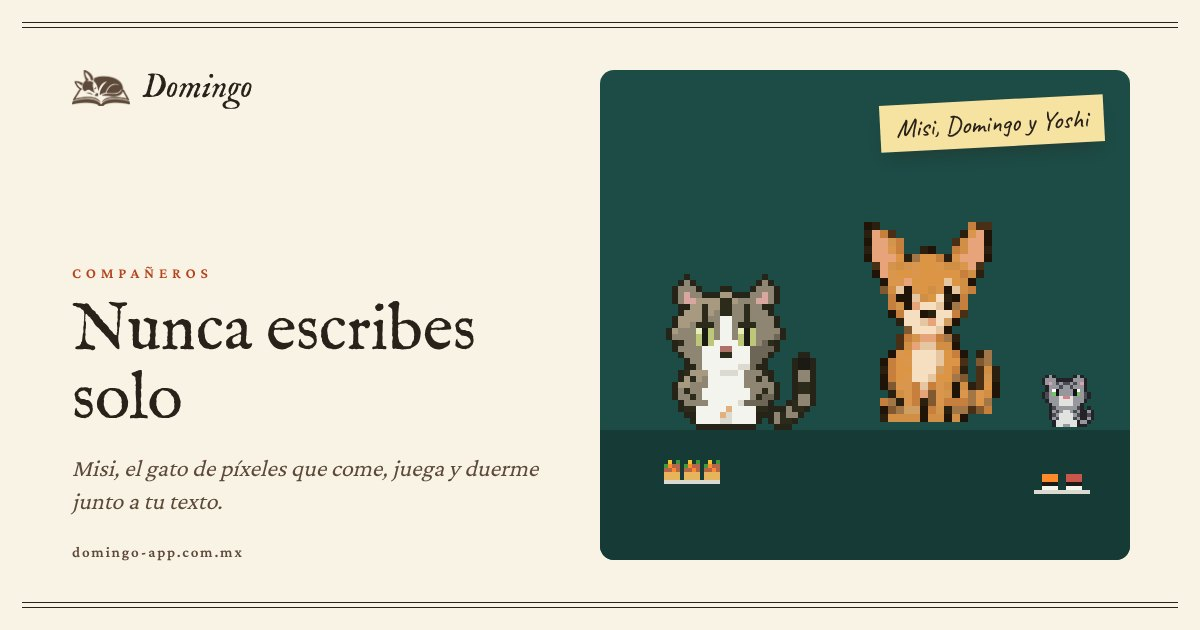
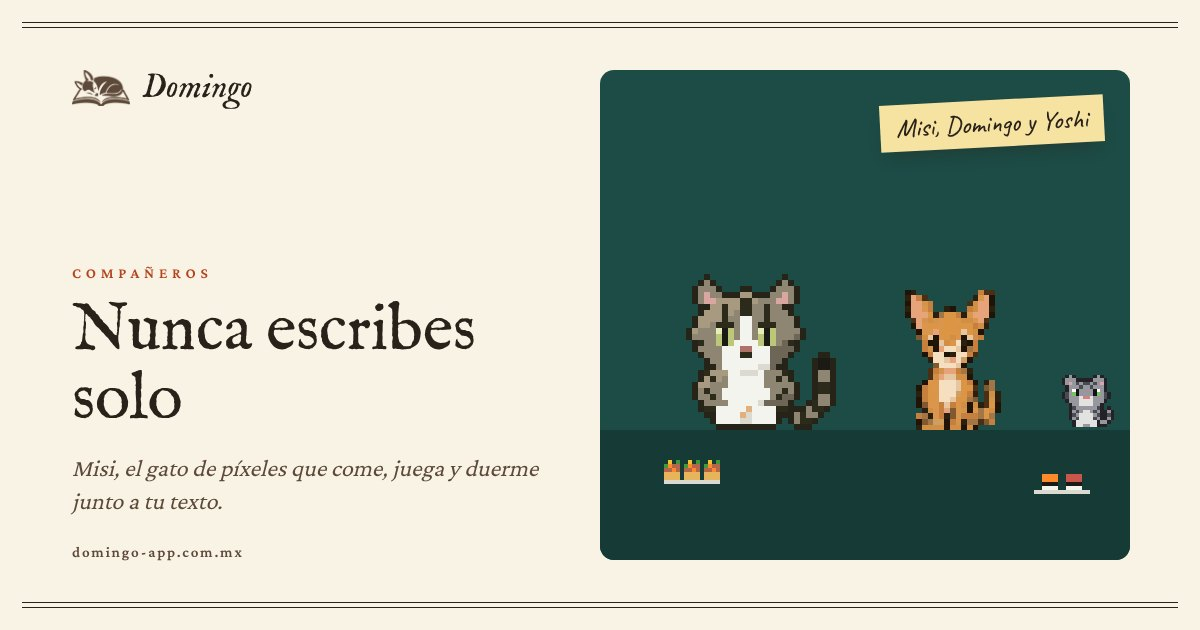
Proporciones reales: Domingo un poco más pequeño que Misi en el sitio y en las imágenes para compartir
Claude-Session: https://claude.ai/code/session_01SU9RbtriRXr5rLhsn7hhpR

Changed region(s): [[0.555, 0.3317, 0.8325, 0.6937], [0.8633, 0.573, 0.925, 0.6937]]

diff --git a/companeros/index.html b/companeros/index.html
@@ -71,7 +71,7 @@
 </div></section>
 <section class="banda"><div class="envoltura">
   <div class="cabeza centro"><span class="versal">El camino</span><h2>Lo que llega si sigues escribiendo</h2><hr class="filete"></div>
-  <div class="hitos"><div class="hito aparece"><div class="sp"><img class="px" src="../img/companeros/a_lentes_sit0.png" width="32" height="30" style="width:128px" alt="" loading="lazy"></div><div class="bola">1</div><b>Lentes</b><small>3 días</small></div><div class="hito aparece"><div class="sp"><img src="../img/companeros/torre.svg" width="150" height="190" style="width:84px" alt="" loading="lazy"></div><div class="bola">2</div><b>La torre</b><small>15,000 palabras</small></div><div class="hito aparece"><div class="sp"><img class="px" src="../img/companeros/f_leon_sit0.png" width="32" height="30" style="width:128px" alt="" loading="lazy"></div><div class="bola">3</div><b>León</b><small>25,000 palabras</small></div><div class="hito aparece"><div class="sp"><img class="px" src="../img/companeros/k_sit0.png" width="32" height="30" style="width:128px" alt="" loading="lazy"></div><div class="bola">4</div><b>Yoshi</b><small>90 días y 80,000 palabras</small></div><div class="hito aparece"><div class="sp"><img class="px" src="../img/companeros/n_Domingo_sit0.png" width="96" height="90" style="width:128px" alt="" loading="lazy"></div><div class="bola">5</div><b>Domingo</b><small>100 días y 100,000 palabras</small></div></div>
+  <div class="hitos"><div class="hito aparece"><div class="sp"><img class="px" src="../img/companeros/a_lentes_sit0.png" width="32" height="30" style="width:128px" alt="" loading="lazy"></div><div class="bola">1</div><b>Lentes</b><small>3 días</small></div><div class="hito aparece"><div class="sp"><img src="../img/companeros/torre.svg" width="150" height="190" style="width:84px" alt="" loading="lazy"></div><div class="bola">2</div><b>La torre</b><small>15,000 palabras</small></div><div class="hito aparece"><div class="sp"><img class="px" src="../img/companeros/f_leon_sit0.png" width="32" height="30" style="width:128px" alt="" loading="lazy"></div><div class="bola">3</div><b>León</b><small>25,000 palabras</small></div><div class="hito aparece"><div class="sp"><img class="px" src="../img/companeros/k_sit0.png" width="32" height="30" style="width:128px" alt="" loading="lazy"></div><div class="bola">4</div><b>Yoshi</b><small>90 días y 80,000 palabras</small></div><div class="hito aparece"><div class="sp"><img class="px" src="../img/companeros/n_Domingo_sit0.png" width="96" height="90" style="width:120px" alt="" loading="lazy"></div><div class="bola">5</div><b>Domingo</b><small>100 días y 100,000 palabras</small></div></div>
 </div></section>
 <section class="banda papel"><div class="envoltura duo">
   <div><span class="versal">Compañero secreto</span><h2 style="margin-top:var(--s2)">Domingo, en su sillón</h2><hr class="filete">

diff --git a/index.html b/index.html
@@ -100,7 +100,7 @@
     <div class="indice">
       <a href="funciones/"><div class="img"><img src="img/app/geografico.webp" width="1440" height="900" alt="" loading="lazy"></div><div class="txt"><span>Funciones</span><h3>Seis estudios en uno</h3><p>Escribir, Mundo, Relato, Revisar, Estudio y Vida, con mapas, líneas de tiempo y árbol familiar.</p></div></a>
       <a href="estilos/"><div class="img"><img src="img/estilos/editor-bohemio-claro.webp" width="1440" height="900" alt="" loading="lazy"></div><div class="txt"><span>Estilos</span><h3>Diez estilos, tres tonos</h3><p>De Clásico a Bauhaus, cada uno en claro, sepia y oscuro. Treinta formas de ver tu estudio.</p></div></a>
-      <a href="companeros/"><div class="img pix"><img class="px" src="img/companeros/n_Misifu_sit0.png" width="32" height="30" style="width:96px" alt="" loading="lazy"><img class="px" src="img/companeros/n_Domingo_sit0.png" width="96" height="90" style="width:128px" alt="" loading="lazy"><img class="px" src="img/companeros/k_sit0.png" width="32" height="30" style="width:72px" alt="" loading="lazy"></div><div class="txt"><span>Compañeros</span><h3>Misi, Domingo y Yoshi</h3><p>Un gato de píxeles que come, juega y duerme junto a tu texto. Y otros que aparecen si escribes mucho.</p></div></a>
+      <a href="companeros/"><div class="img pix"><img class="px" src="img/companeros/n_Misifu_sit0.png" width="32" height="30" style="width:96px" alt="" loading="lazy"><img class="px" src="img/companeros/n_Domingo_sit0.png" width="96" height="90" style="width:90px" alt="" loading="lazy"><img class="px" src="img/companeros/k_sit0.png" width="32" height="30" style="width:72px" alt="" loading="lazy"></div><div class="txt"><span>Compañeros</span><h3>Misi, Domingo y Yoshi</h3><p>Un gato de píxeles que come, juega y duerme junto a tu texto. Y otros que aparecen si escribes mucho.</p></div></a>
     </div>
   </div>
 </section>

diff --git a/preguntas/index.html b/preguntas/index.html
@@ -47,7 +47,7 @@
     <div class="enlaces"><a class="boton claro" href="mailto:contacto@domingo-app.com.mx">Escribir un correo</a>
     <a class="boton secundario" style="color:var(--crema);border-color:var(--crema)" href="https://www.instagram.com/domingo.app/" target="_blank" rel="noopener">@domingo.app</a></div>
     <p class="chico" style="color:#cfd8cc;margin-top:var(--s2)">contacto@domingo-app.com.mx</p></div>
-  <div style="display:flex;justify-content:center;align-items:flex-end;gap:16px"><img class="px" src="../img/companeros/n_Domingo_sleep0.png" width="96" height="90" style="width:192px" alt="Domingo dormido" loading="lazy"><img class="px" src="../img/companeros/m_sleep0.png" width="32" height="30" style="width:96px" alt="Misi dormido" loading="lazy"></div>
+  <div style="display:flex;justify-content:center;align-items:flex-end;gap:16px"><img class="px" src="../img/companeros/n_Domingo_sleep0.png" width="96" height="90" style="width:150px" alt="Domingo dormido" loading="lazy"><img class="px" src="../img/companeros/m_sleep0.png" width="32" height="30" style="width:144px" alt="Misi dormido" loading="lazy"></div>
 </div></section>
 </main>
 <footer>
